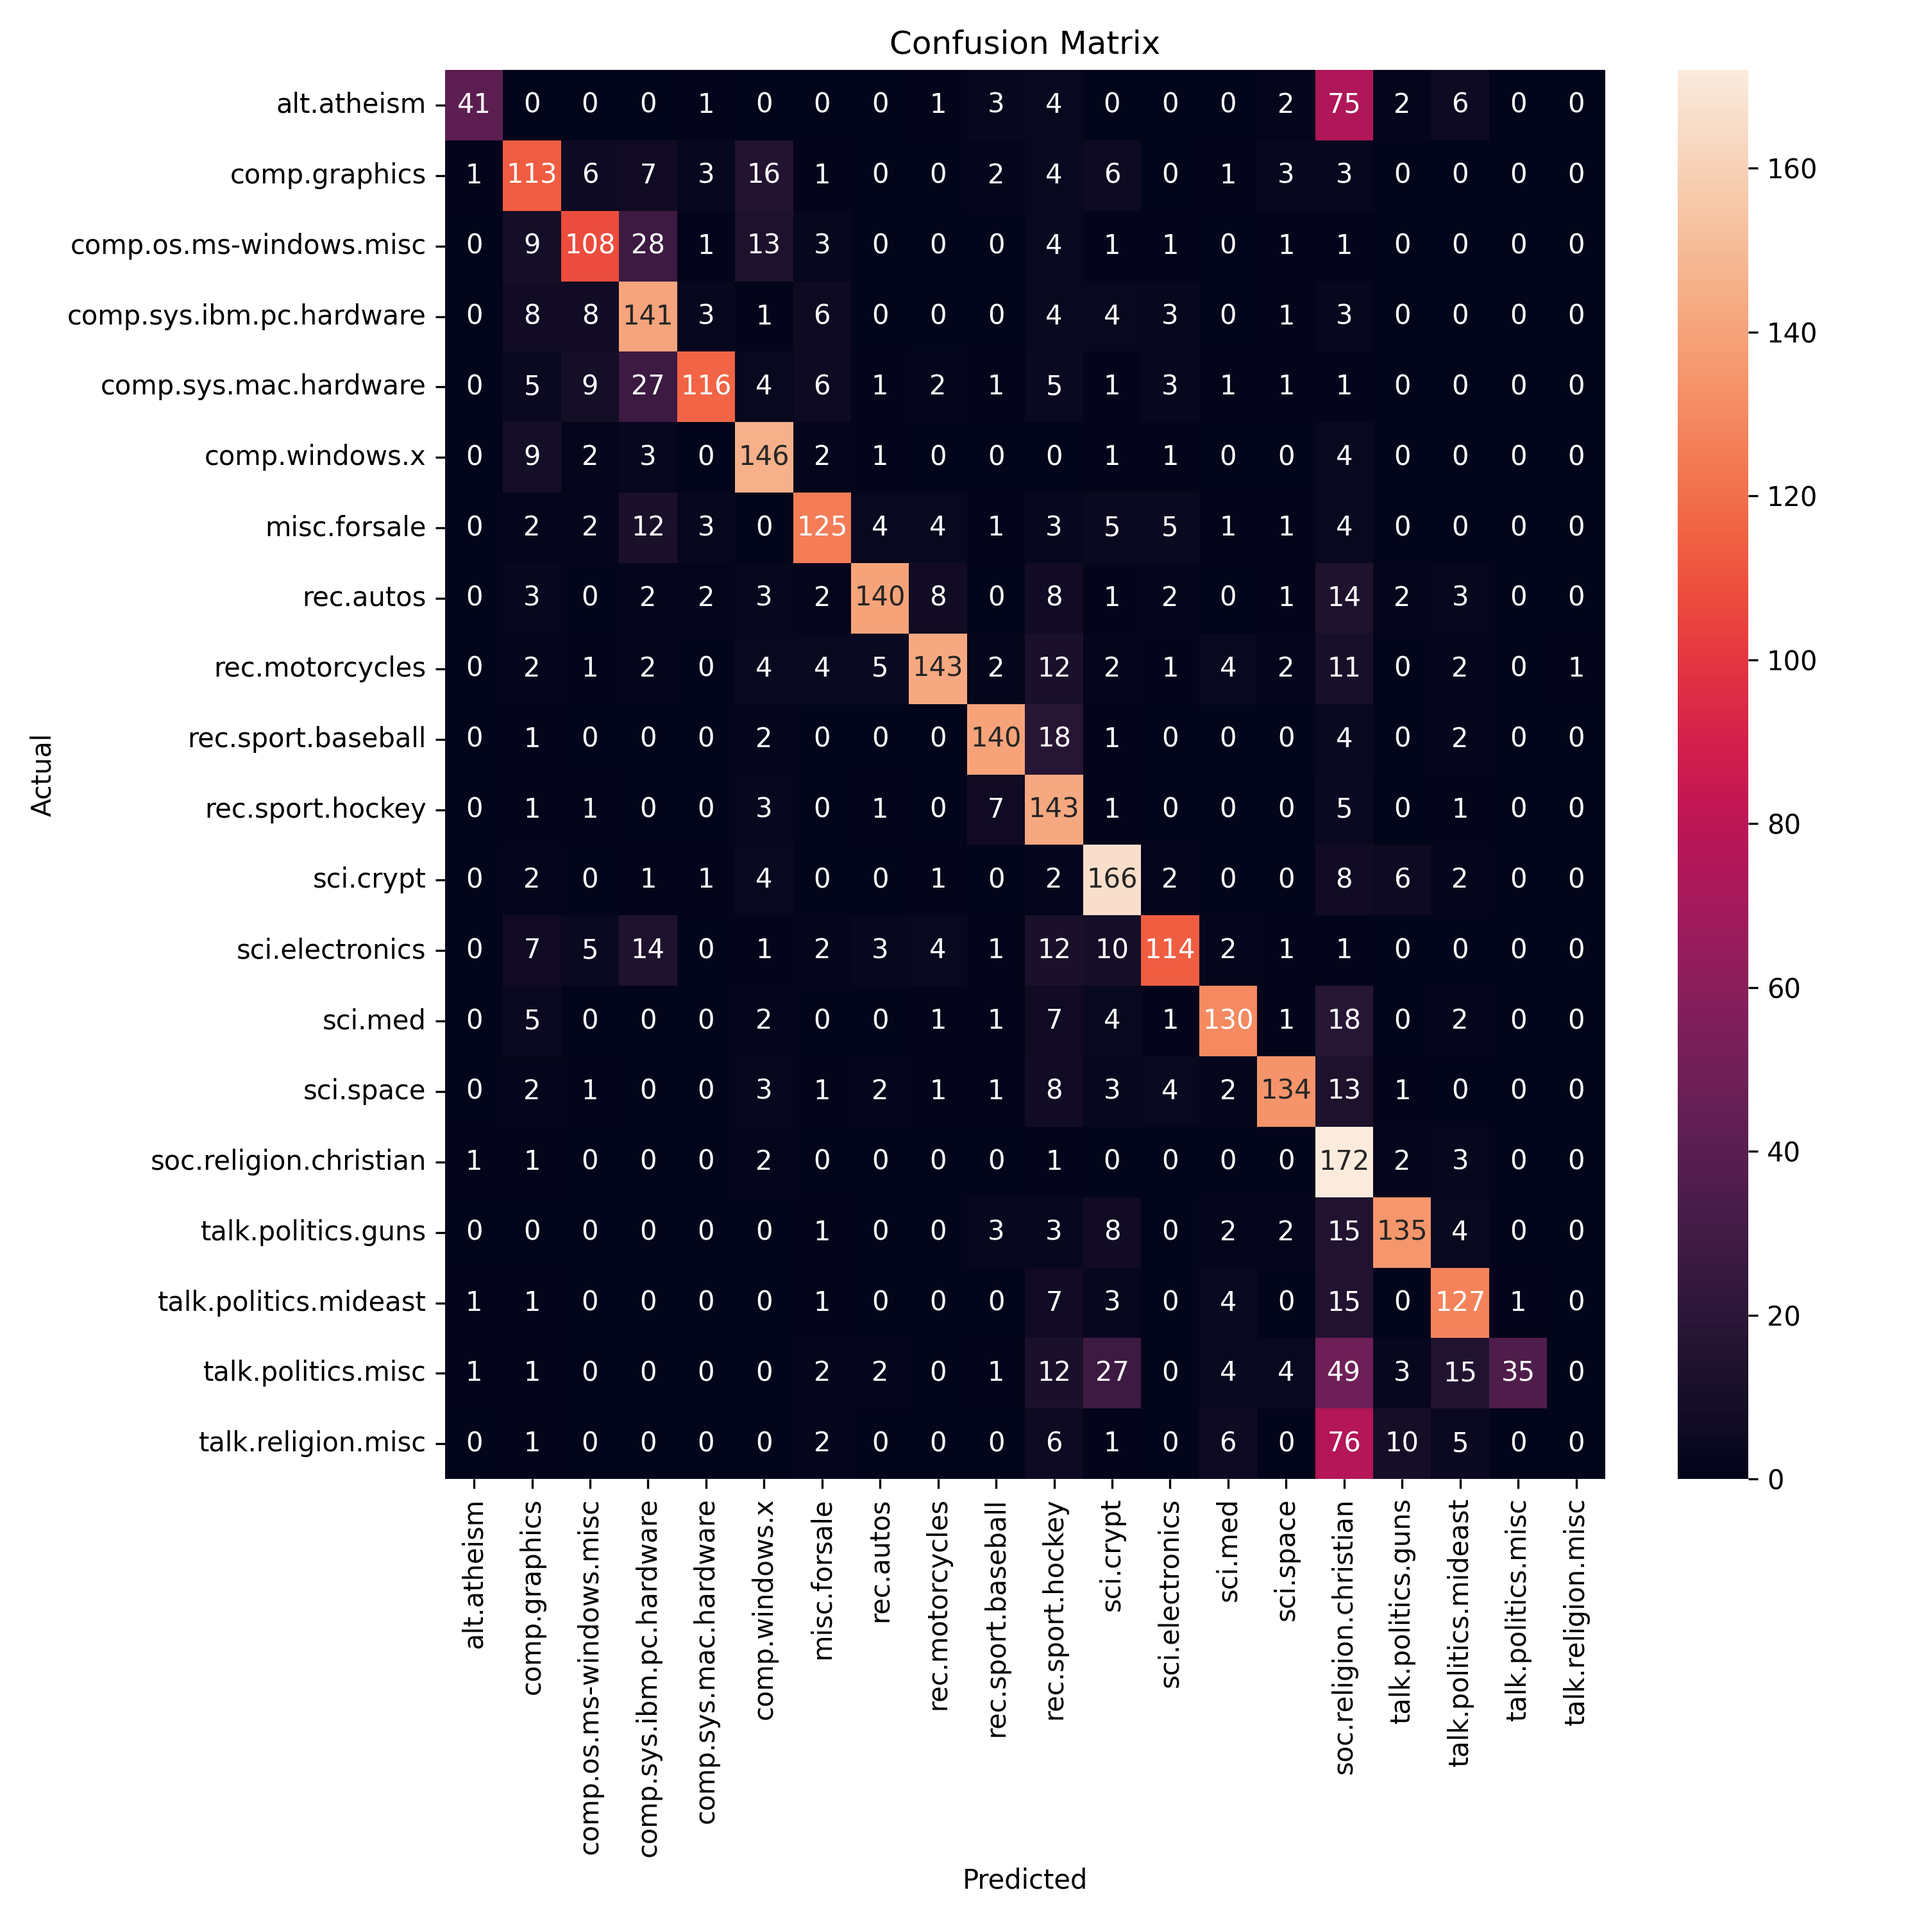
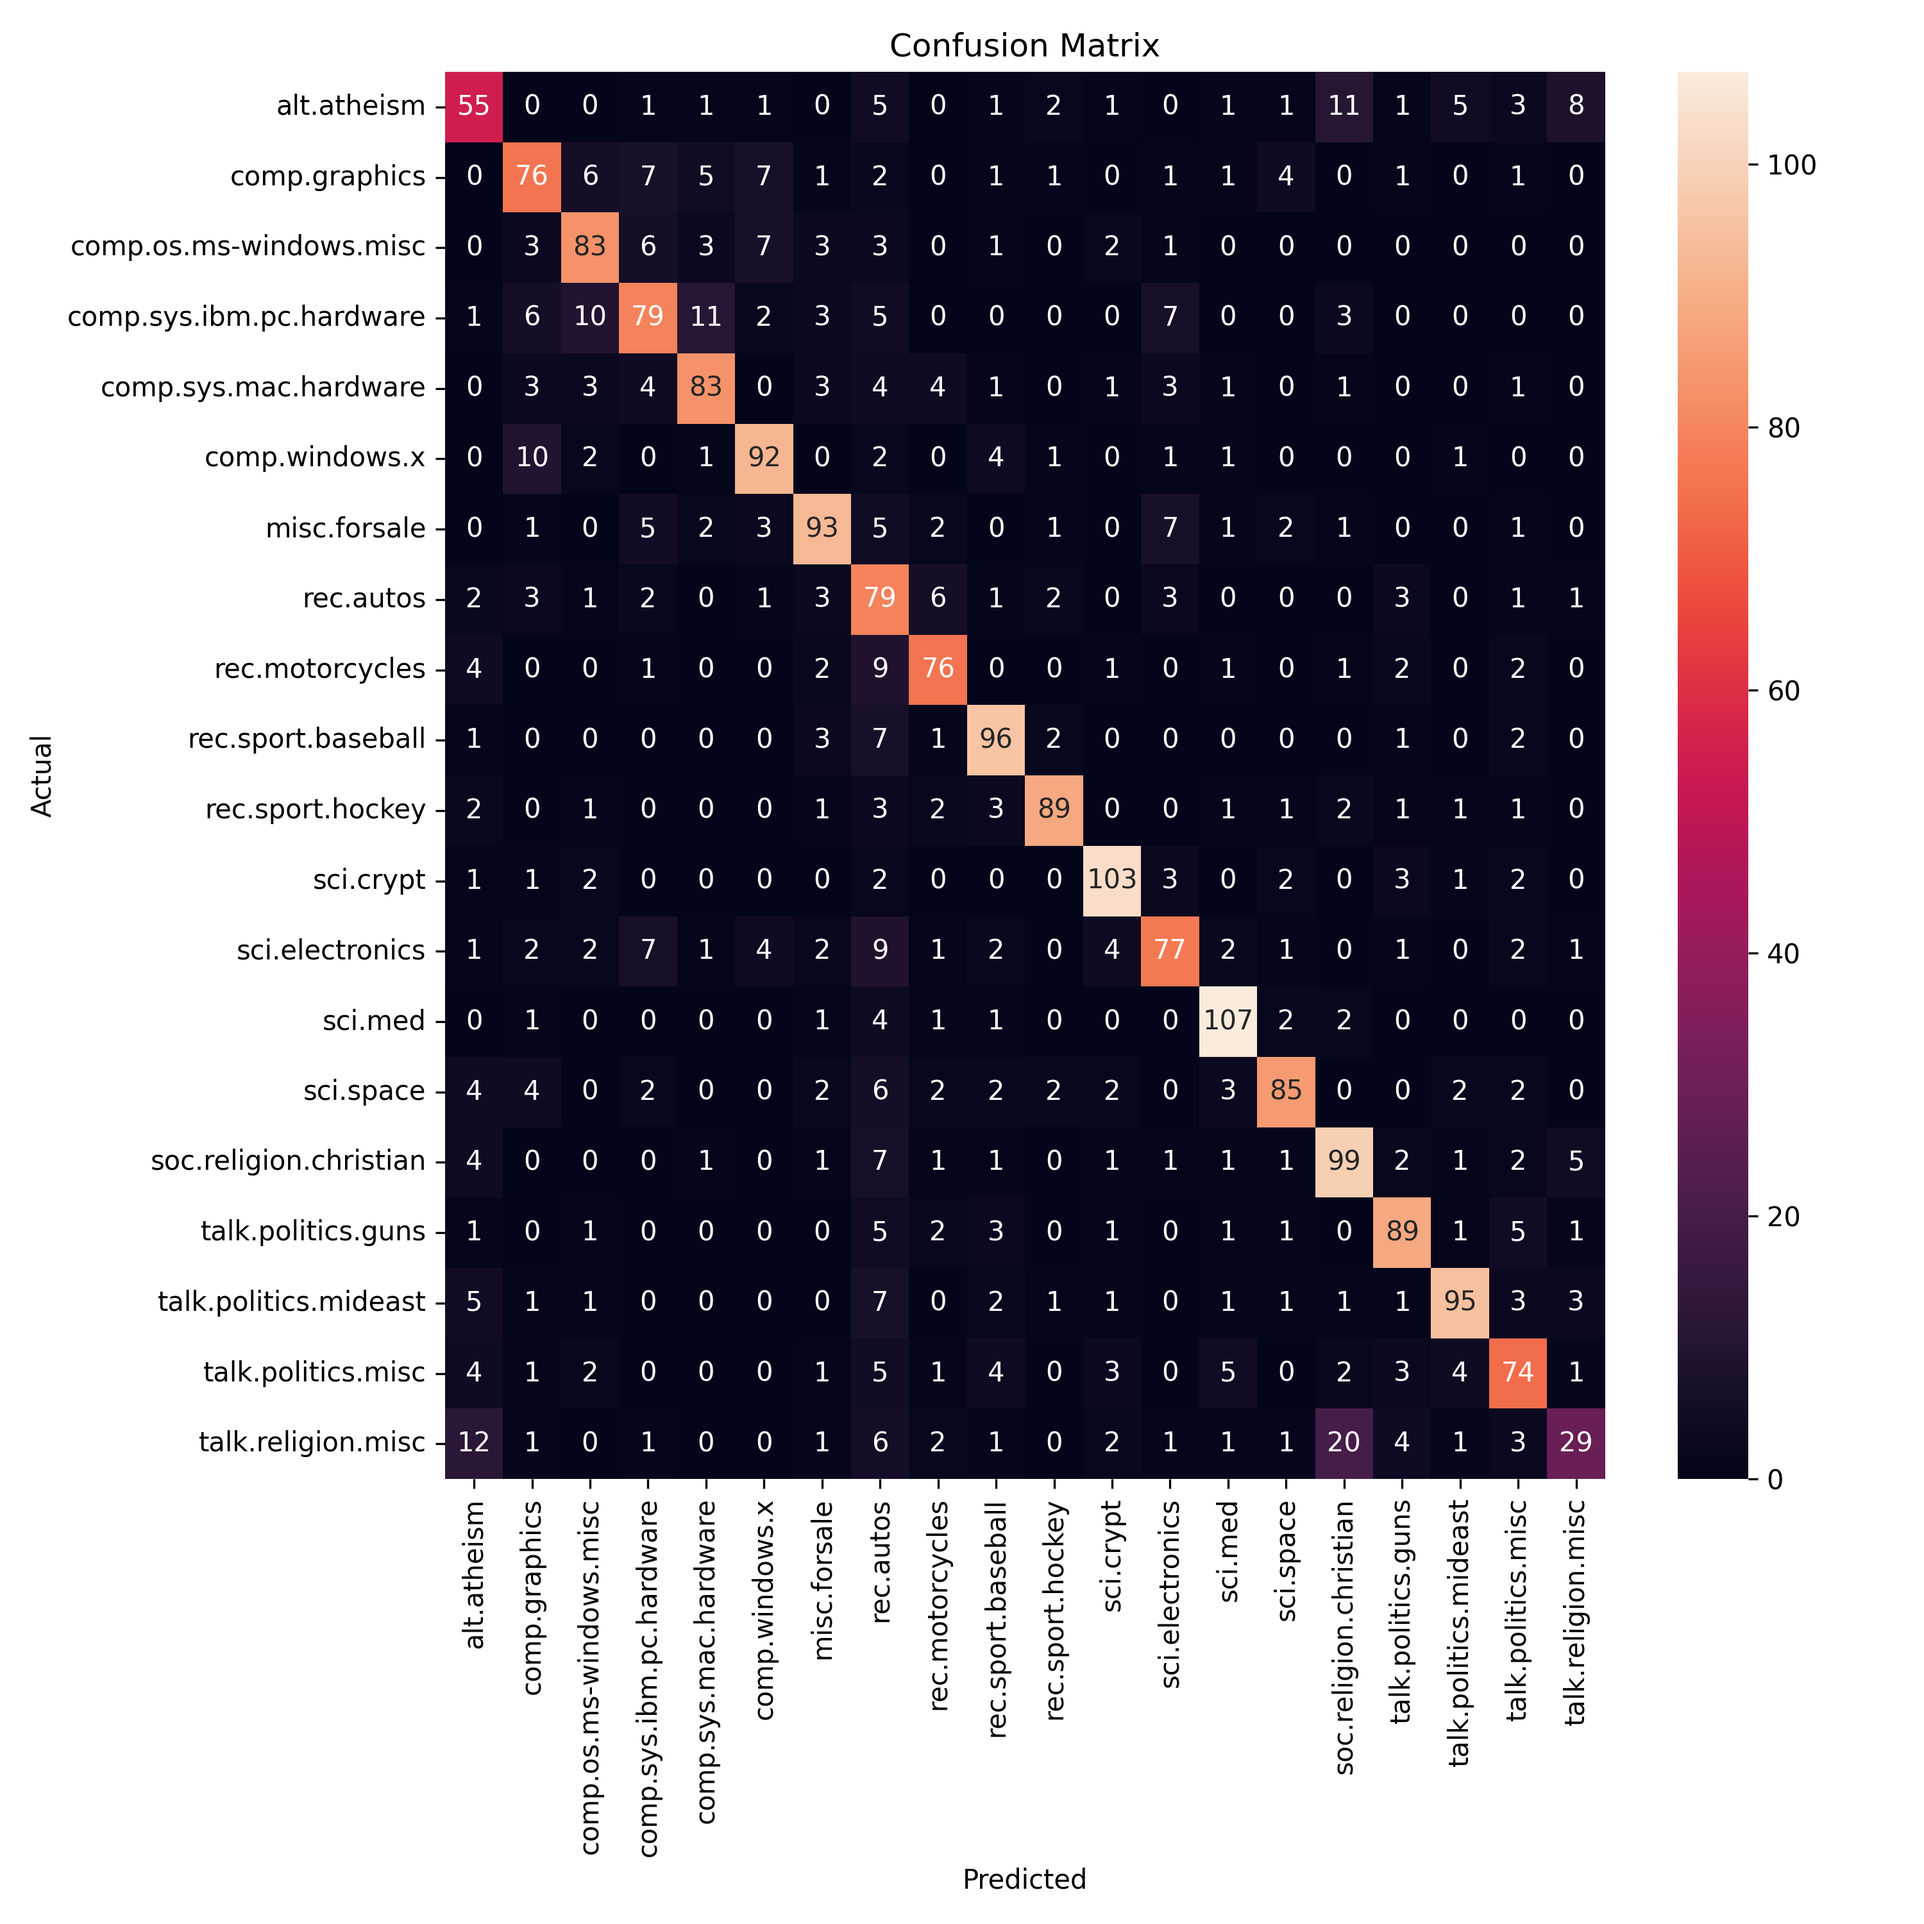
Add two additional models (Logistic Regression and Linear SVM) to classification models in order to allow the comparison of model performances on the newsgroups dataset.

diff --git a/classification_model.py b/classification_model.py
@@ -1,4 +1,6 @@
 from sklearn.naive_bayes import MultinomialNB
+from sklearn.linear_model import LogisticRegression
+from sklearn.svm import LinearSVC
 from sklearn.model_selection import train_test_split
 from feature_extraction import extract_features
 from sklearn.datasets import fetch_20newsgroups
@@ -6,19 +8,29 @@ from sklearn.metrics import classification_report, confusion_matrix
 import matplotlib.pyplot as plt
 import seaborn as sns
 
-def train_model(documents, labels):
+def train_model(documents, labels, model_type='naive_bayes'):
     # Extract features
     features, _ = extract_features(documents)
 
     # Splitting the dataset into training and testing sets
     X_train, X_test, y_train, y_test = train_test_split(features, labels, test_size=0.2, random_state=1)
 
-    # Training the model
-    model = MultinomialNB()
+    # Select and train the model based on the specified type
+    if model_type == "naive_bayes":
+        model = MultinomialNB()
+    elif model_type == "logistic_regression":
+        model = LogisticRegression(max_iter=1000)
+    elif model_type == "linear_svc":
+        model = LinearSVC(max_iter=1000, dual=False)
+    else:
+        raise ValueError("Unsupported model type")
+
+
     model.fit(X_train, y_train)
 
     # Evaluating the model
     predictions = model.predict(X_test)
+    print(f"Result for {model_type}:")
     print(classification_report(y_test, predictions))
 
     return model, X_test, y_test, predictions
@@ -43,5 +55,9 @@ if __name__ == "__main__":
     labels = newsgroups_train.target
     categories = newsgroups_train.target_names
 
-    model, X_test, y_test, predictions = train_model(documents, labels)
-    plot_confusion_matrix(y_test, predictions, categories)
+
+    # Train and evaluate each model
+    for model_type in ["naive_bayes", "logistic_regression", "linear_svc"]:
+        model, X_test, y_test, predictions = train_model(documents, labels, model_type)
+        plot_confusion_matrix(y_test, predictions, categories)
+
